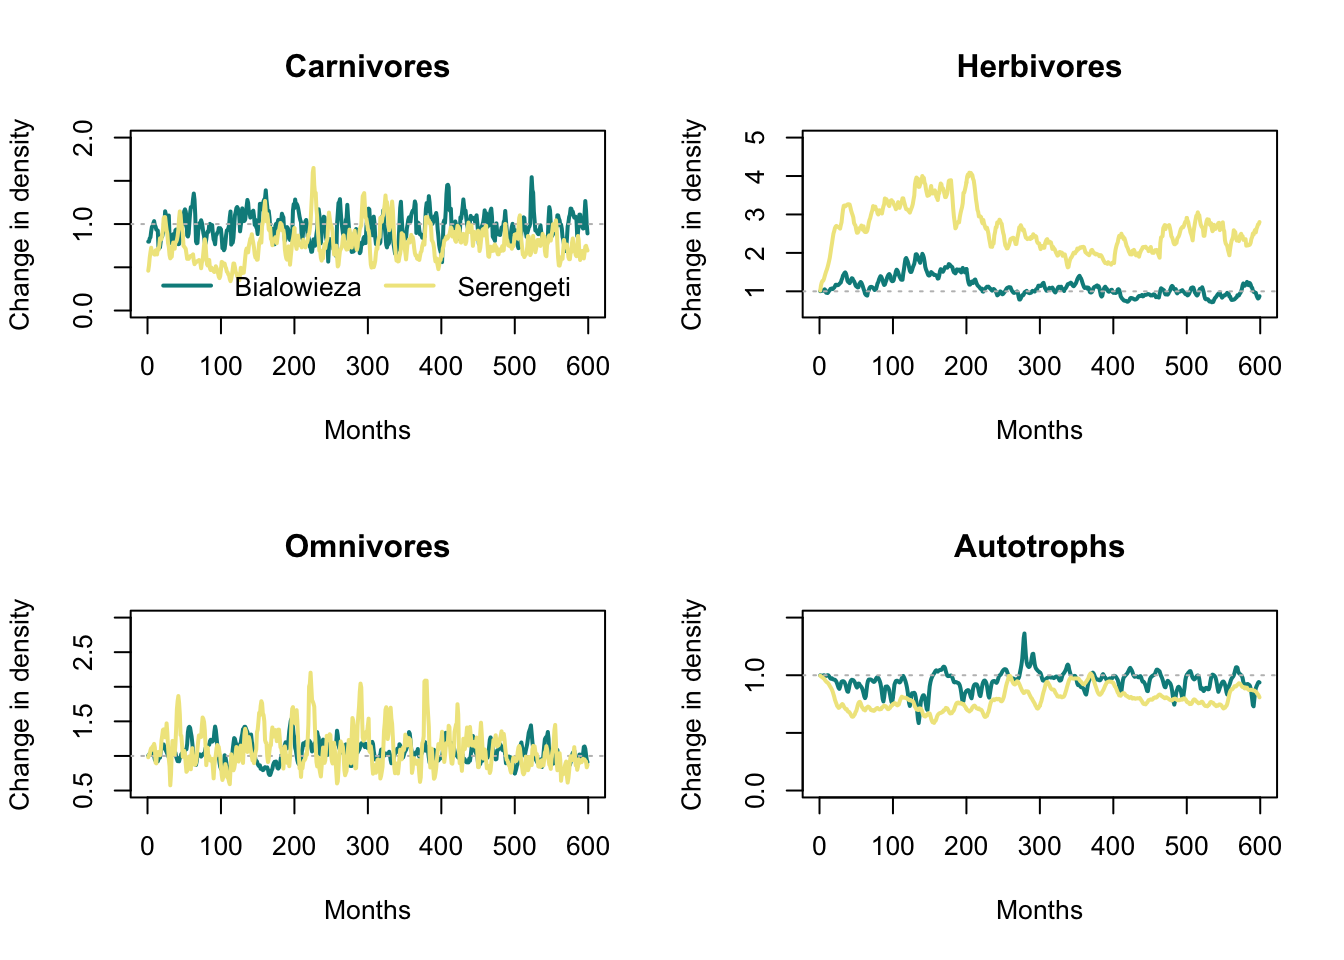
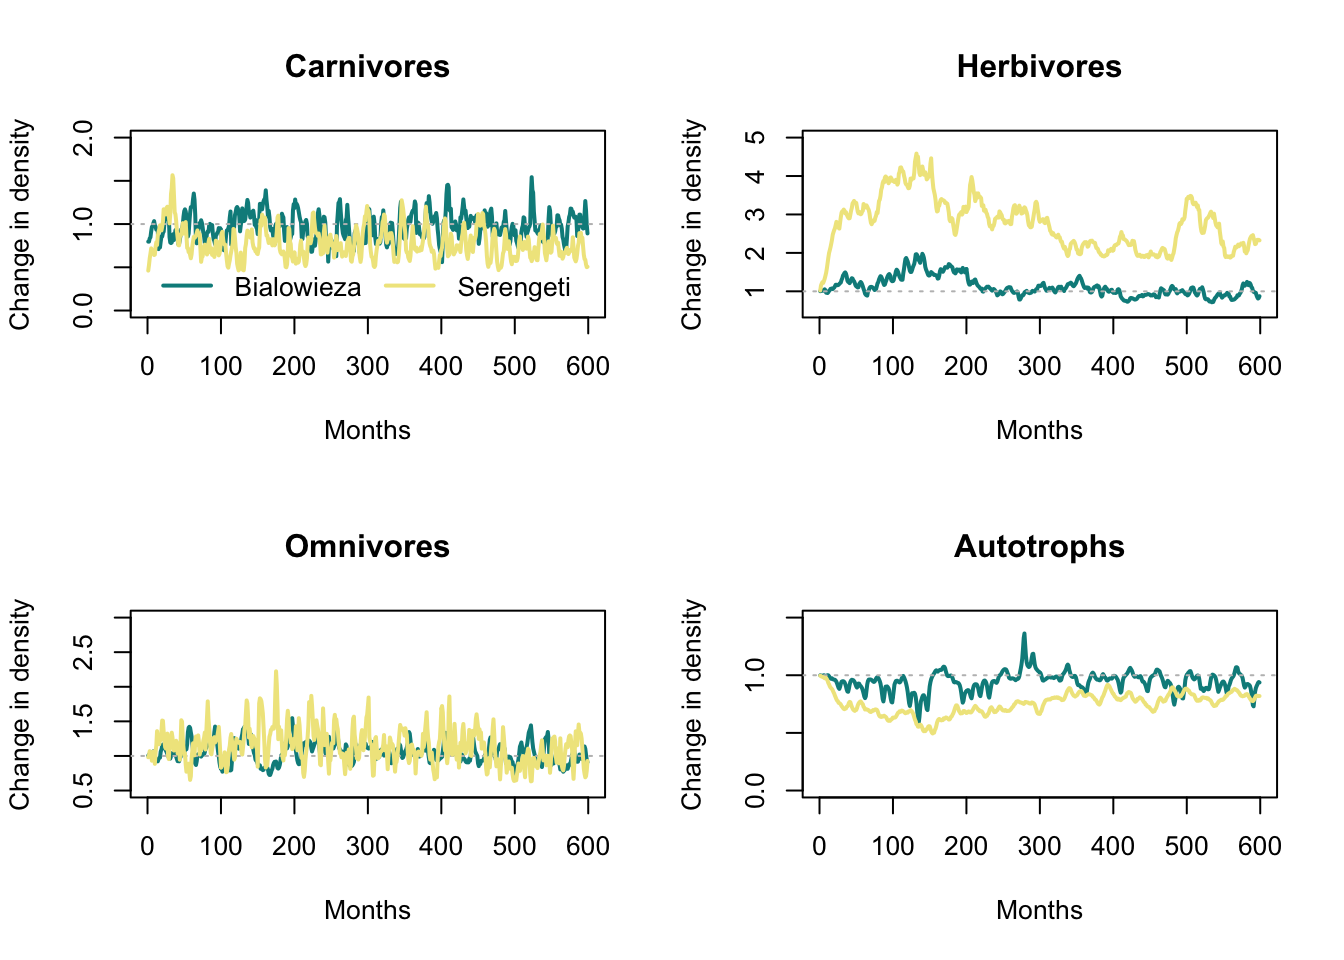
update

diff --git a/12_Mad_carnivores.html b/12_Mad_carnivores.html
@@ -592,7 +592,7 @@ save(mres_spinup_B, mres_spinup_S, file=paste0(dirpath,&#39;/mres_carnivores.RDa
 another 50 years. To do so, we use the output of the spin-up simulation
 as input data for this new simulation.</p>
 <p><em>If your machine runs very slow, simplify the example to just one
-location.</em></p>
+location or reduce the spatial window you are simulating.</em></p>
 <pre class="r"><code># Run control scenario for 50 years.
 # Note that simulations start from spinup results: 
 mres_control_B = madingley_run(madingley_data = mres_spinup_B, 
@@ -602,7 +602,7 @@ mres_control_B = madingley_run(madingley_data = mres_spinup_B,
 
 mres_control_S = madingley_run(madingley_data = mres_spinup_S, 
                        years = 50,
-                       cohort_def = c_defs_B,
+                       cohort_def = c_defs_S,
                        out_dir=dirpath)</code></pre>
 <pre class="r"><code># save model objects
 save(mres_spinup_B, mres_spinup_S, mres_control_B, mres_control_S, file=paste0(dirpath,&#39;/mres_carnivores.RData&#39;))</code></pre>
@@ -774,7 +774,7 @@ plot_foodweb(mres_control_B, max_flows = 5)</code></pre>
 <pre class="r"><code>title(&#39;Bialowieza - removal scenario&#39;)</code></pre>
 <p><img src="12_Mad_carnivores_files/figure-html/unnamed-chunk-12-2.png" width="672" /></p>
 <pre class="r"><code>plot_foodweb(mres_control_S, max_flows = 5)</code></pre>
-<pre><code>## loading inputs from: /Users/zurell/data/Lehre/UP_Lehre/CLEWS/EcosystemDynamics/edb-course/models/Mad_carnivores/madingley_outs_31_05_22_20_04_58/</code></pre>
+<pre><code>## loading inputs from: /Users/zurell/data/Lehre/UP_Lehre/CLEWS/EcosystemDynamics/edb-course/models/Mad_carnivores/madingley_outs_29_06_22_11_33_27/</code></pre>
 <pre class="r"><code>title(&#39;Serengeti - control scenario&#39;)</code></pre>
 <p><img src="12_Mad_carnivores_files/figure-html/unnamed-chunk-12-3.png" width="672" /></p>
 <pre class="r"><code>plot_foodweb(mres_removal_S, max_flows = 5)</code></pre>
